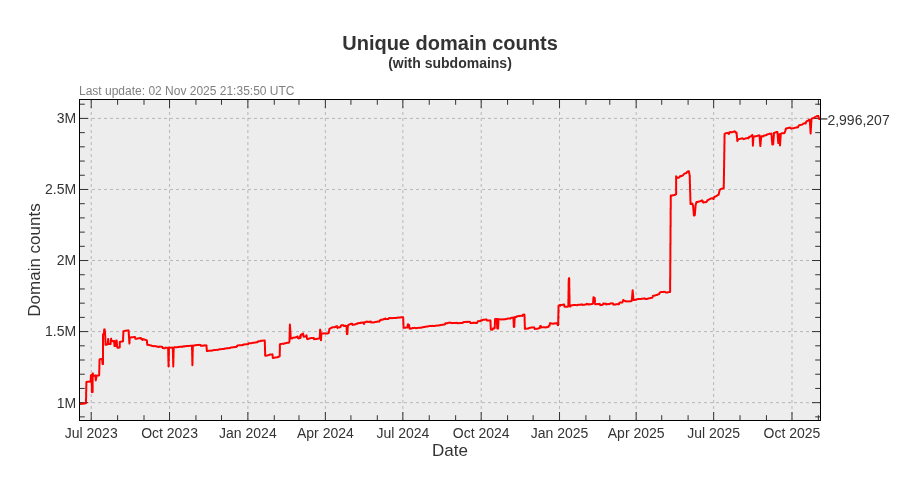
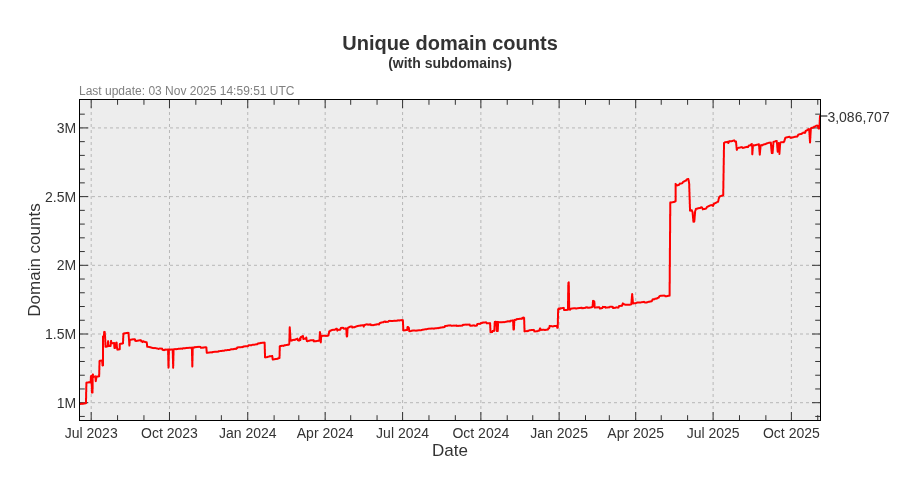
Update pages

diff --git a/README.md b/README.md
@@ -3,22 +3,22 @@ A blocklist file for blocking ads, trackers and malware domains.
 
[1 lines of base64/hex data omitted]
 
-- Unique domains: 2,996,207
-- Without subdomains: 2,297,430
-- Last update: 02 Nov 2025 21:35:50 UTC
-- Version: 2025.11.02.01
+- Unique domains: 3,086,707
+- Without subdomains: 2,356,045
+- Last update: 03 Nov 2025 14:59:51 UTC
+- Version: 2025.11.03.01
 
 
 ### Downloads:
 
 | Format             | Domain count      | Download Link |
 |:------------------ | -----------------:|:-------------:|
-| *Adblock Plus*     | 2,297,430 | [Download](https://dl.cenk.app/bad-hosts/bad-hosts-abp) |
-| *Wildcard domains* | 2,297,430 | [Download](https://dl.cenk.app/bad-hosts/bad-hosts-wildcard) |
-| *dnsmasq*          | 2,297,430 | [Download](https://dl.cenk.app/bad-hosts/bad-hosts-dnsmasq) |
-| *hosts*            | 2,996,207 | [Download](https://dl.cenk.app/bad-hosts/hosts) |
-| *hosts (ipv6)*     | 2,996,207 | [Download](https://dl.cenk.app/bad-hosts/hosts-ipv6) |
-| *Plain domains*    | 2,996,207 | [Download](https://dl.cenk.app/bad-hosts/bad-hosts-domains) |
+| *Adblock Plus*     | 2,356,045 | [Download](https://dl.cenk.app/bad-hosts/bad-hosts-abp) |
+| *Wildcard domains* | 2,356,045 | [Download](https://dl.cenk.app/bad-hosts/bad-hosts-wildcard) |
+| *dnsmasq*          | 2,356,045 | [Download](https://dl.cenk.app/bad-hosts/bad-hosts-dnsmasq) |
+| *hosts*            | 3,086,707 | [Download](https://dl.cenk.app/bad-hosts/hosts) |
+| *hosts (ipv6)*     | 3,086,707 | [Download](https://dl.cenk.app/bad-hosts/hosts-ipv6) |
+| *Plain domains*    | 3,086,707 | [Download](https://dl.cenk.app/bad-hosts/bad-hosts-domains) |
 
 ### Domain count history
 #### With subdomains
